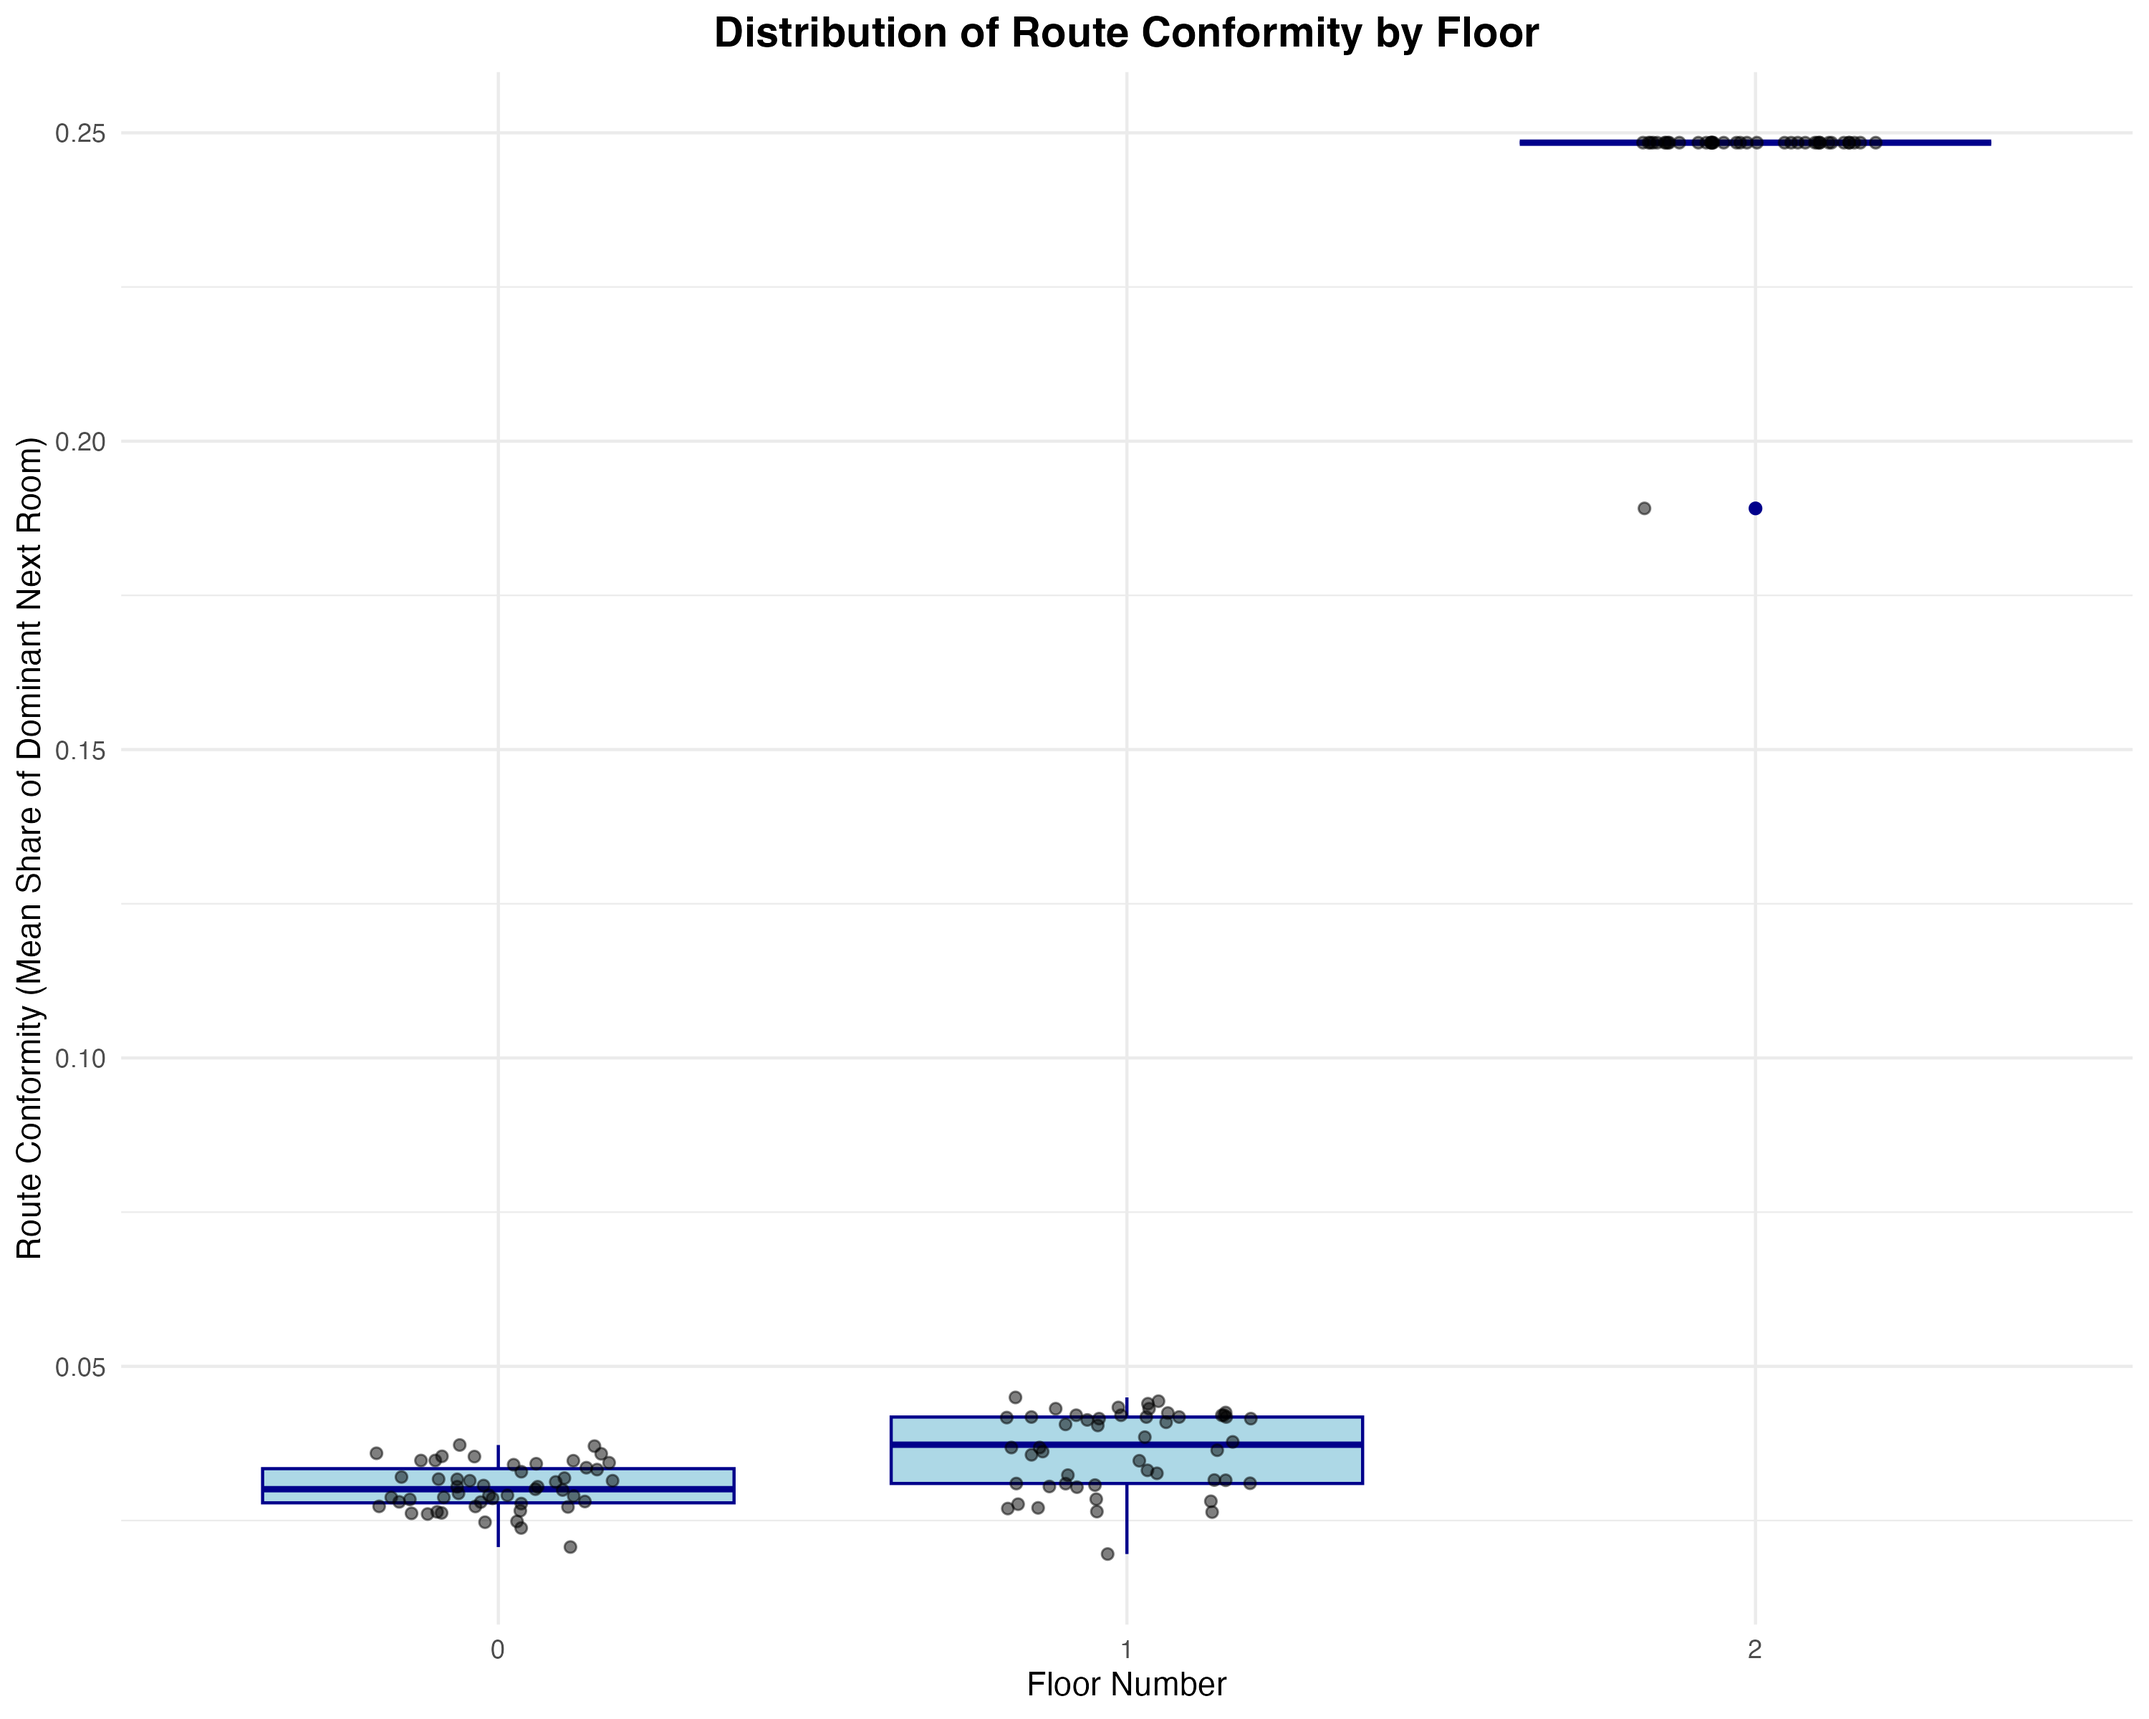
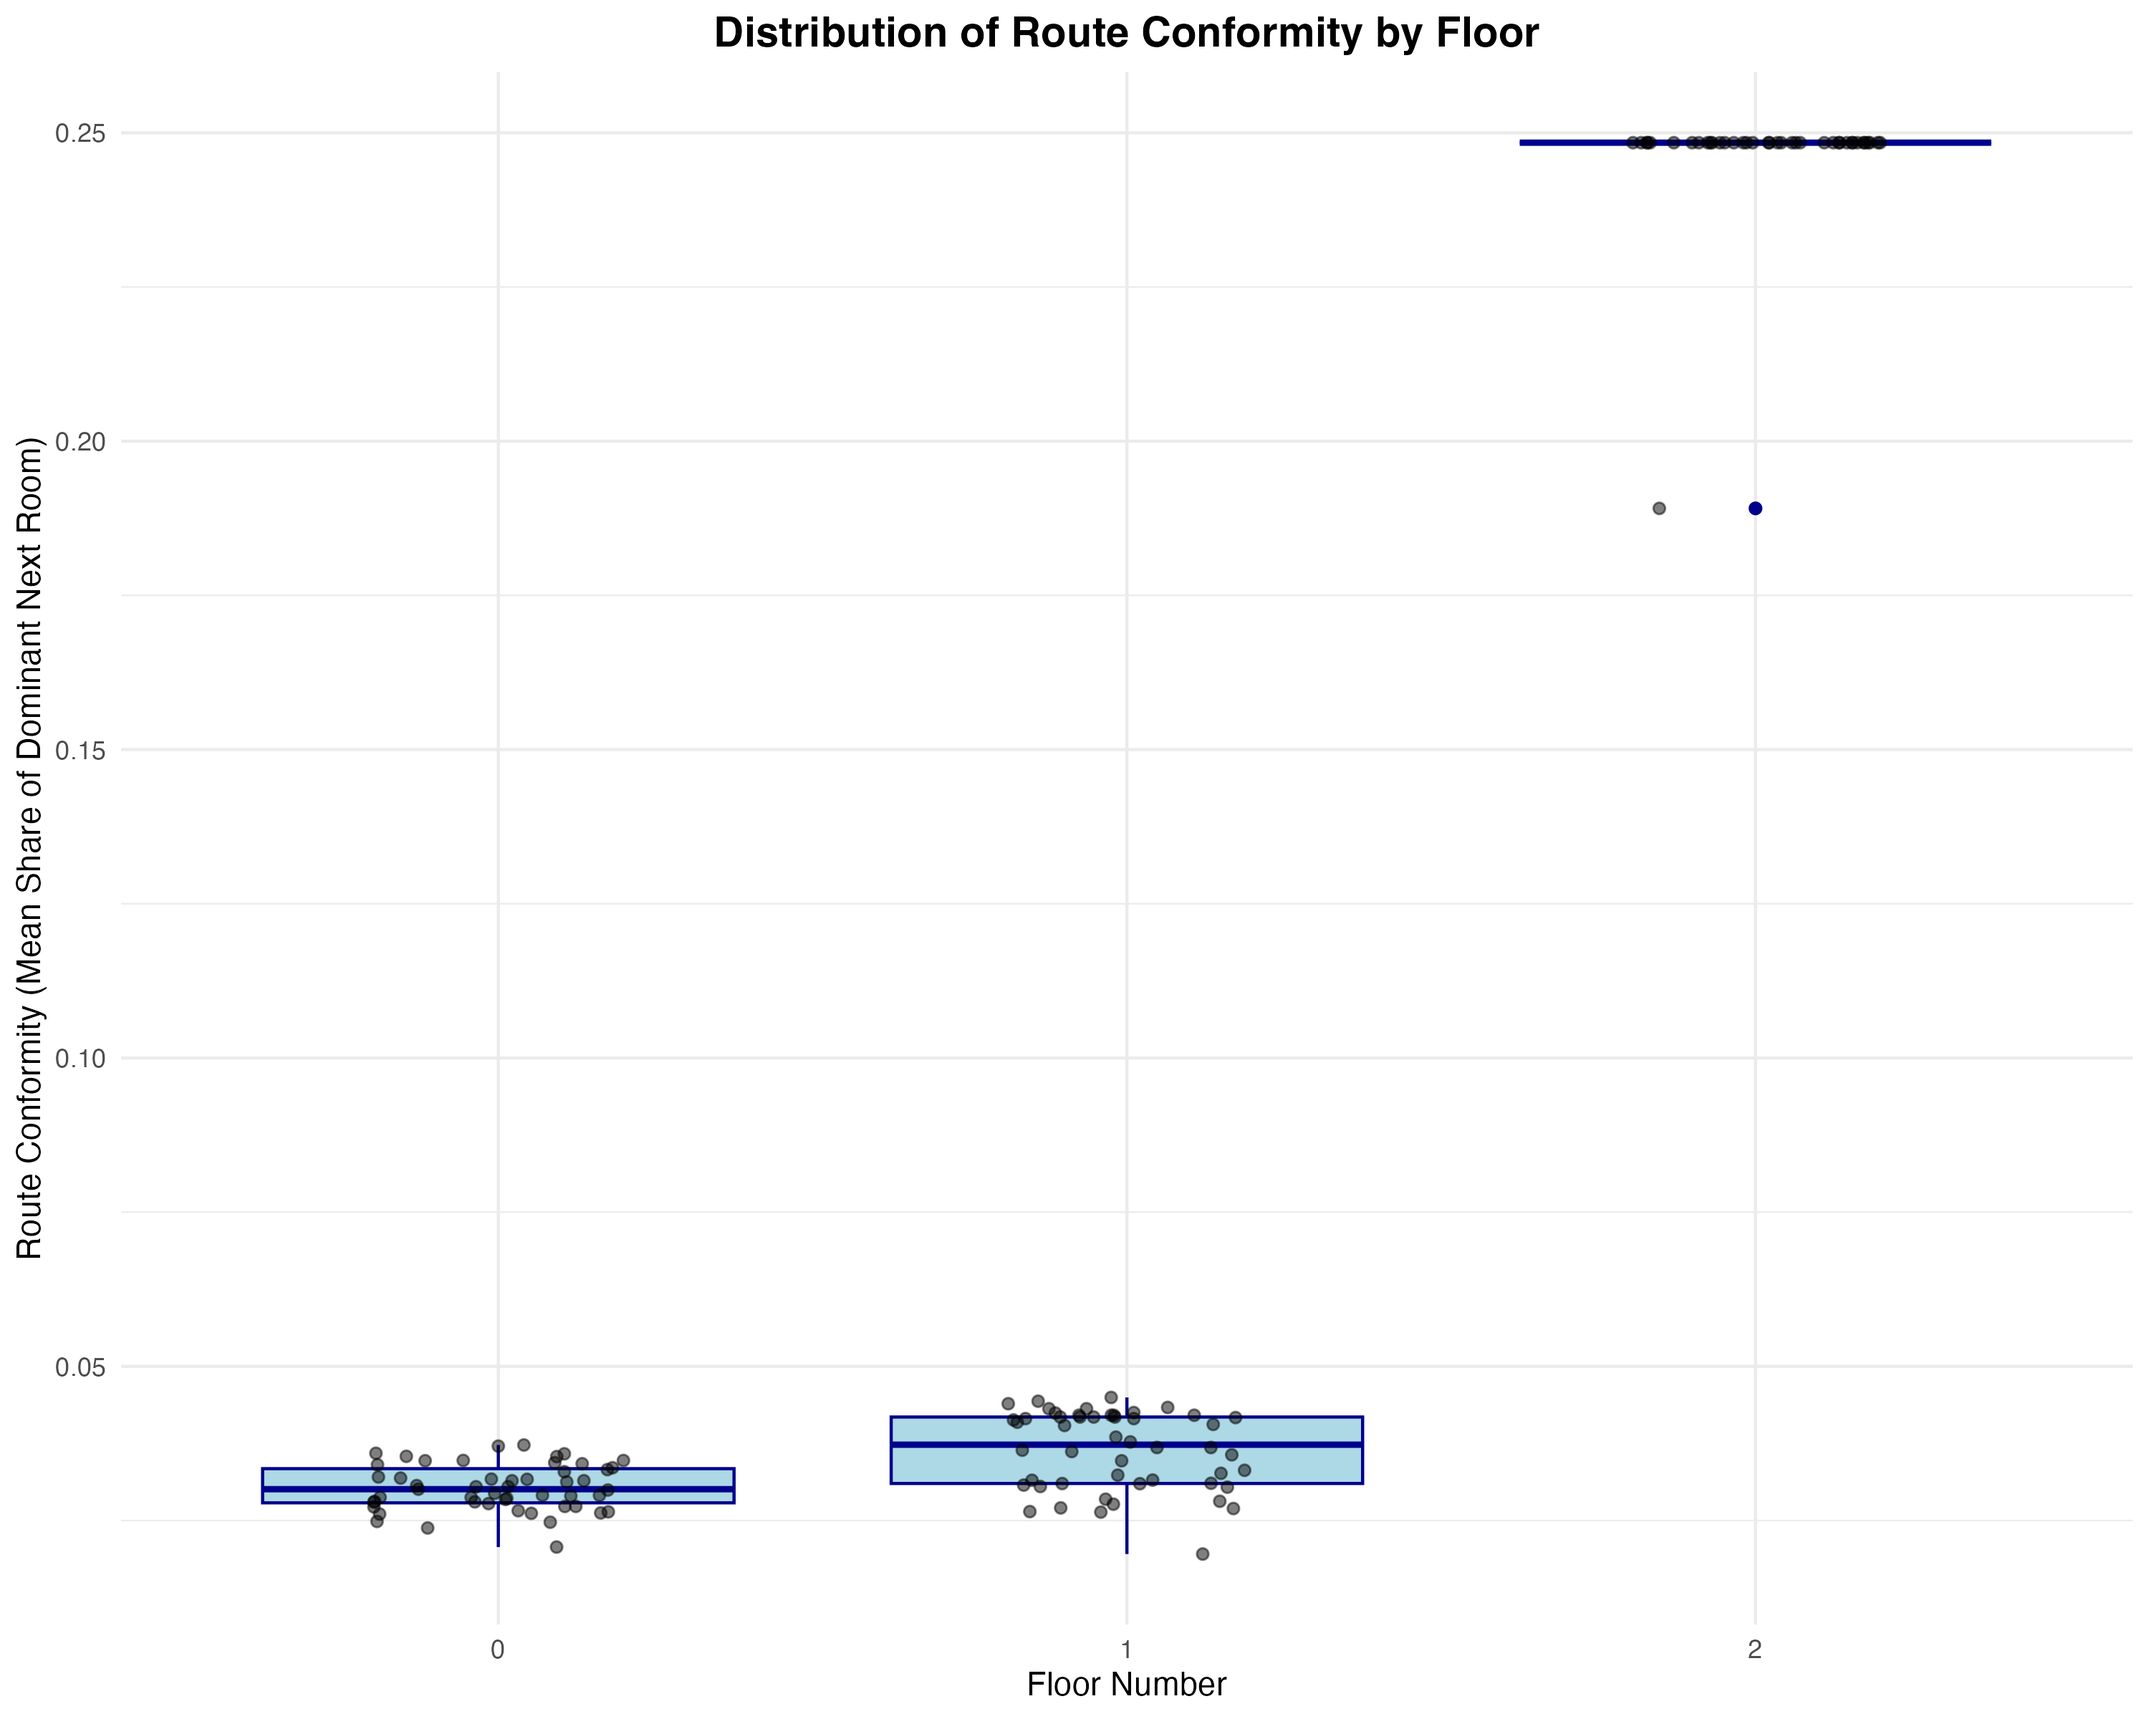
minor changes for plotting and README updated

Changed region(s): [[0.465, 0.8125, 0.589, 0.9062], [0.155, 0.8438, 0.31, 0.9062], [0.744, 0.0625, 0.868, 0.0938]]

diff --git a/README.md b/README.md
@@ -1,1 +1,143 @@
-# TO-DO
+# Spatial Analytics: Museum Visitor Movement Analysis
+
+## Short overall description
+
+This repository contains the data-processing scripts, spatial data, figures and tables used for a Spatial Analytics exam project at Aarhus University created by Zosia Radwanska and Alexandra Ciulisova. The project investigates how the spatial layout of the Nancy Museum of Fine Arts shapes visitor movement patterns across three floors.
+
+The analysis focuses on three main questions:
+
+1. To what extent do visitors follow similar spatial trajectories within each floor, and does trajectory similarity differ between floors as measured by Frechet distance and coefficient of variation?
+2. Which rooms function as hubs in room transition networks on each floor and to what extent is average room dwell time correlated with room size, spatial connectivity, number of visitors, and number of paintings?
+3. How is room-to-room sequence predictability related to the branching structure of each floor, measured through dominant next-room share, transition entropy, and number of possible next rooms?
+
+The project combines trajectory analysis, room-level spatial annotation, transition network analysis, dwell-time comparison and route predictability measures.
+
+## Data
+
+The project uses the **Behavioural and Identity-Related Dataset (BIRD)** introduced by Worm, Marchal, and Castagnos (2025):
+
+- Paper: https://dl.acm.org/doi/full/10.1145/3708319.3733686
+- Dataset/project page: https://mbanv2.loria.fr/
+
+BIRD was collected at the Nancy Museum of Fine Arts and contains visitor movement and identity-related information from 51 museum visitors. Participants explored the museum freely while wearing eye-tracking glasses.
+
+For this project, the most relevant parts of the data were:
+
+- normalized visitor trajectories sampled at regular temporal intervals,
+- museum floor-plan geometry,
+- wall and object coordinates in JSON/GeoJSON format,
+- manually annotated room polygons,
+- artwork metadata per room,
+- participant-level descriptive data,
+- semantic visit-level information such as visit duration, distance, and number of items seen.
+
+The dataset is used under the **CC BY-NC-SA 4.0** license. Any reuse of the original BIRD dataset should cite the original paper.
+
+## Repo structure
+
+```text
+SpatialAnalytics/
+│
+├── data/
+│   ├── geojson_converted_objects/        # Converted floor-plan objects as GeoJSON
+│   ├── museum_walls_plans/               # Original museum wall/floor-plan files
+│   ├── normalized_trajectories/          # Normalized trajectory CSV files per visitor
+│   ├── polygons/                         # Room polygons used for room-level assignment
+│   ├── pre_processed_geojson/            # Preprocessed GeoJSON files
+│   ├── questionnaires/                   # Questionnaire and demographic data
+│   ├── annotating_map.qgz                # QGIS project used for room annotation
+│   └── semantic_info_entire_trajectories.csv # Visit-level semantic information used for descriptive statistics
+│
+├── src/
+│   ├── geojson_json_conversion_scripts/
+│   │   ├── json_to_geojson_full.py       # Converts museum JSON objects to GeoJSON
+│   │   ├── trajectories_to_geojson.py    # Converts trajectory CSV files to GeoJSON
+│   │
+│   ├── cds_spatial_descriptive_statistics.Rmd # Descriptive statistics of participants and visits
+│   ├── cds_spatial_pathway_analysis.Rmd  # Trajectory-level analysis and Frechet distance calculations
+│   └── cds_spatial_room_analysis.Rmd     # Room-level analysis, transition networks and route predictability  
+│
+├── out/
+│   ├── figures/                          # Main plots produced by the analysis
+│   └── tables/                           # Summary tables and exported results
+│
+├── README.md
+└── .gitignore
+```
+
+## Script function overview
+
+The repository contains three main R Markdown analysis scripts and a set of Python conversion utilities.
+
+### `cds_spatial_descriptive_statistics.Rmd`
+
+Produces descriptive summaries of the participants and visit-level data. This includes demographic distributions, visit duration, walking distance, and number of artworks seen.
+
+### `cds_spatial_pathway_analysis.Rmd`
+
+Performs trajectory-level analysis. The script loads spatial trajectory data, filters points by room polygons, converts points into participant-level trajectories, calculates pairwise Fréchet distances, compares trajectory variability across floors, and produces movement-density and distance-distribution visualisations.
+
+### `cds_spatial_room_analysis.Rmd`
+
+Performs room-level and sequence-level analysis. This includes room assignment, dwell-time calculation, room transition extraction, transition network analysis, route conformity, dominant next-room share, transition entropy, and branching structure comparisons across floors.
+
+### `geojson_json_conversion_scripts/`
+
+Contains Python utilities used to convert between JSON, GeoJSON, and trajectory CSV formats. These scripts support the spatial preprocessing pipeline and make it possible to align the trajectory data with the museum geometry.
+
+## Suggested workflow
+
+A typical workflow is:
+
+1. Convert museum JSON and trajectory CSV files to GeoJSON using the scripts in `src/geojson_json_conversion_scripts/`.
+2. Annotate or inspect room boundaries in QGIS using `data/annotating_map.qgz`.
+3. Export room polygons and place them in `data/polygons/`.
+4. Run `cds_spatial_descriptive_statistics.Rmd` to generate participant and visit-level summaries.
+5. Run `cds_spatial_pathway_analysis.Rmd` to calculate trajectory similarity and movement-density outputs.
+6. Run `cds_spatial_room_analysis.Rmd` to calculate room transitions, dwell time, network measures, route conformity, and branching structure.
+7. Inspect generated figures and tables in `out/`.
+
+## Main outputs
+
+The repository exports figures and tables to the `out/` folder. These include:
+
+- Fréchet distance distributions,
+- movement density plots,
+- room transition network visualisations,
+- room conformity plots,
+- branching structure plots,
+- coefficient of variation summaries,
+- descriptive statistics tables,
+- dwell-time correlation tables,
+- floor-level route exploration summaries.
+
+
+## Output summary
+
+The project found that visitor movement patterns differed between museum floors. 
+- For trajectory similarity, Floor 2 showed smaller raw Fréchet distances and more similar trajectories than Floors 0 and 1. This likely reflects the more constrained and linear layout of Floor 2. However, coefficient of variation comparisons were not statistically significant, suggesting that raw Fréchet distance differences were also influenced by floor size and spatial scale. 
+- For room-level dwell time, the time visitors spent in rooms was more strongly associated with room size and number of artworks than with visitor count or approximate network centrality measures. This suggests that dwell time was shaped more by spatial scale and exhibition content than by simple connectivity alone.
+- For room transition networks, staircases, entrances, and exits played an important role in structuring visitor flow. Some highly connected rooms may therefore function as transition spaces rather than as rooms that are necessarily more attractive or engaging.
+- For route predictability, Floor 2 showed the strongest conformity, with dominant room-to-room transitions and low transition entropy. Floors 0 and 1 showed more branching and greater variation in route choice. This suggests that sequence predictability was closely tied to the branching structure of the layout.
+Overall, the findings suggest that more constrained layouts produced more predictable visitor movement, while more open layouts allowed greater variation in exploration.
+
+
+## Steps for improvement
+
+Future versions of the project could improve the analysis by:
+
+- applying the workflow to multiple museums to test whether the findings transfer across different layouts,
+- balancing floor-level comparisons by using only visitors who reached all three floors,
+- distinguishing exhibition rooms from functional transition spaces such as staircases,
+- separating stationary viewing time from walking or circulation time,
+- including artwork size, visual salience, period, artist, or popularity as additional predictors,
+- adding formal space syntax metrics such as visibility, integration, and choice,
+- validating manually annotated room polygons against a more systematic spatial reference,
+- making the preprocessing pipeline more reproducible with clearer path conventions and dependency documentation,
+- adding a requirements file or setup instructions for the R and Python environments,
+- documenting the expected order in which scripts should be run.
+
+
+## Authors
+
+Project created by **Zosia Radwanska** and **Alexandra Ciulisova** for the Spatial Analytics course at Aarhus University.
